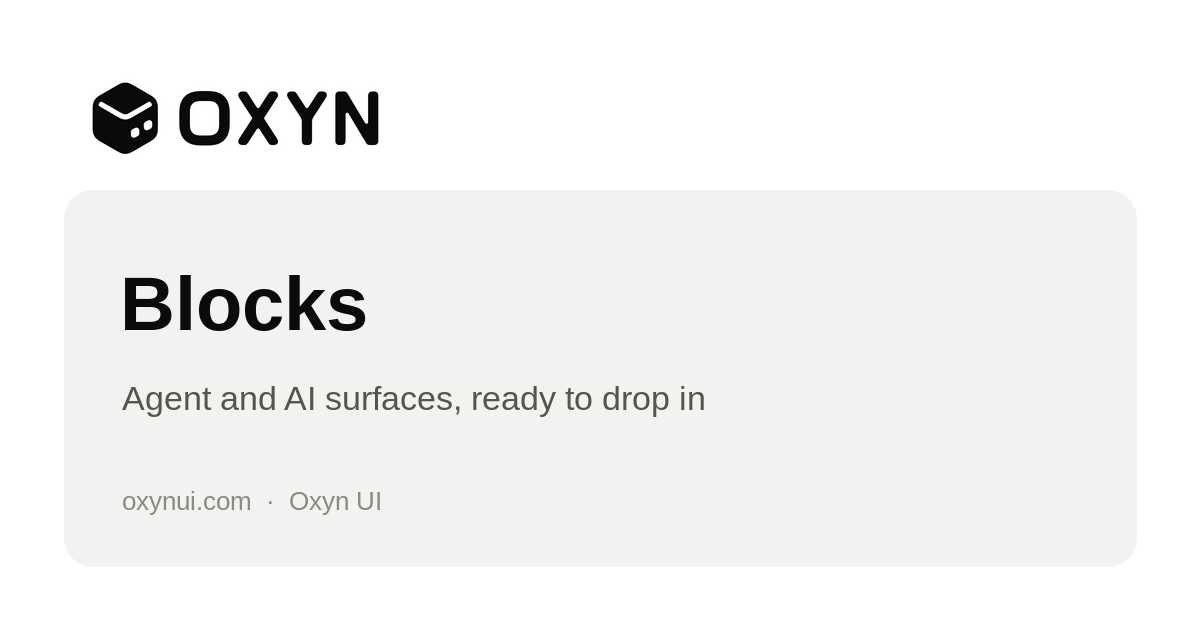
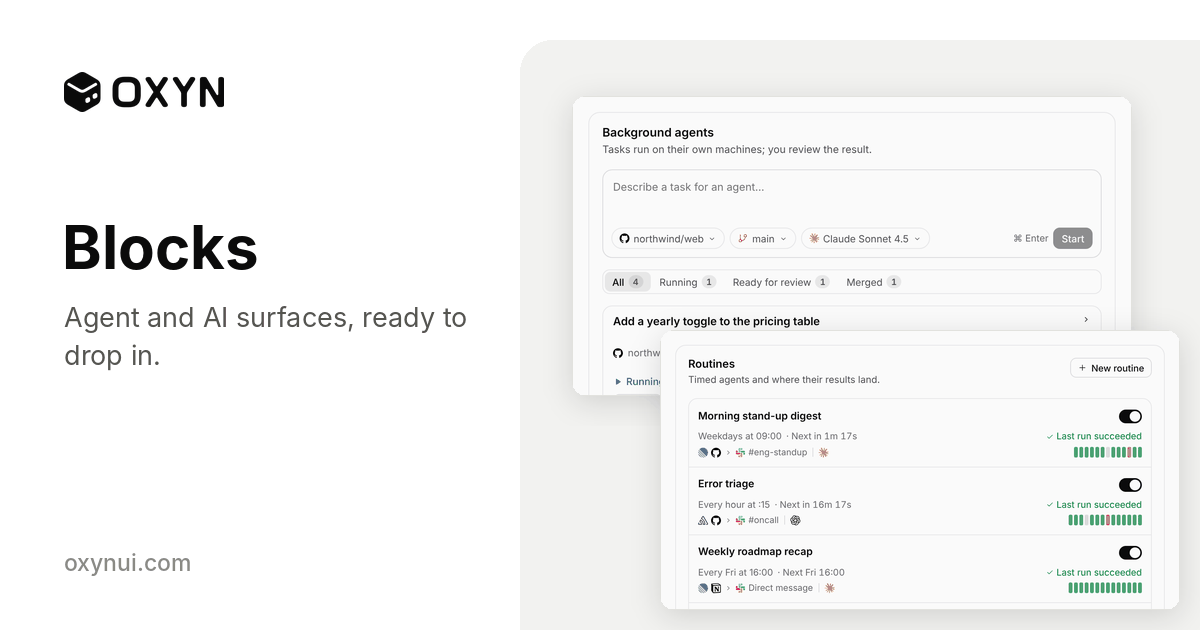
feat(site): link-preview cards from real screenshots, og:image ?v=3
scripts/og-shots.py screenshots the live components and screens and lays out 1200x630 cards for the landing (og.png), Components, Screens, Blocks, Pricing, Docs and a generic docs card (35-55 KB each, limit 300 KB checked). The remaining text cards keep og-cards.sh, now drawing the lockup from scripts/assets/og-lockup.png. Every og:image carries ?v=OG_V (src/lib/site.mjs, now 3). The landing's section previews load 640-wide WebP copies (public/og/t/, 5-13 KB) instead of the 60-70 KB PNGs.

diff --git a/site/scripts/og-shots.py b/site/scripts/og-shots.py
@@ -1,0 +1,133 @@
+#!/usr/bin/env python3
+# Link-preview cards from real screenshots (public/og.png and public/og/<card>.png, 1200 x 630, PNG,
+# each under 300 KB). Screenshots the live components and screens on a running site, then lays out
+# the Oxyn lockup, a title and a line on the left and the screenshot on a grey panel on the right.
+# Bump OG_V in src/lib/site.mjs after rerunning so apps that cached the old cards fetch the new ones.
+#
+#   OXYN_PREVIEW=https://oxynui.com python3 scripts/og-shots.py      (needs playwright + Pillow)
+#   CHROMIUM=/usr/bin/chromium picks a browser; --compose-only reuses the last screenshots;
+#   --thumbs-only only rewrites the 640-wide WebP previews (public/og/t/) after og-cards.sh.
+import asyncio, json, os, sys
+from PIL import Image, ImageDraw, ImageFilter, ImageFont
+
+HERE = os.path.dirname(os.path.abspath(__file__))
+PUB = os.path.join(HERE, '..', 'public')
+SHOTS = os.environ.get('OXYN_OG_SHOTS', '/tmp/oxyn-og-shots')
+BASE = os.environ.get('OXYN_PREVIEW', 'https://oxynui.com').rstrip('/')
+FREE = len(json.load(open(os.path.join(HERE, '..', 'src', 'lib', 'free-tier.json')))['free'])
+
+# What to screenshot: whole screens (the /full/ view at 1440 x 900) and single components (the
+# component itself on its item page, without the playground controls).
+SCREENS = ['chat-agents', 'kanban'] if os.environ.get('OXYN_OG_SCREENS', '1') == '1' else []
+COMPONENTS = ['components/agents/approval-card', 'components/agents/agent-plan', 'components/agents/tool-call',
+              'components/chat/reasoning-block', 'blocks/agents/agent-routines', 'blocks/agents/background-agents']
+
+def font(weight, size):
+    for f in [f'/usr/share/fonts/opentype/inter/Inter-{weight}.otf',
+              f'/usr/share/fonts/truetype/liberation/LiberationSans-{"Bold" if weight != "Regular" else "Regular"}.ttf']:
+        if os.path.exists(f): return ImageFont.truetype(f, size)
+    return ImageFont.load_default()
+
+async def shoot():
+    from playwright.async_api import async_playwright
+    os.makedirs(SHOTS, exist_ok=True)
+    async with async_playwright() as p:
+        exe = os.environ.get('CHROMIUM')
+        b = await p.chromium.launch(**({'executable_path': exe} if exe else {}), args=['--no-sandbox'] + (['--no-proxy-server'] if '127.0.0.1' in BASE or 'localhost' in BASE else []))
+        ctx = await b.new_context(viewport={'width': 1440, 'height': 900}, device_scale_factor=2, color_scheme='light')
+        # Only the site itself: a third-party beacon must not hold up the load event.
+        await ctx.route(lambda u: not u.startswith(BASE), lambda r: r.abort())
+        pg = await ctx.new_page()
+        async def open_(u):
+            await pg.goto(BASE + u, wait_until='domcontentloaded', timeout=60000)
+            await pg.evaluate("sessionStorage.setItem('oxyn-intro','1');localStorage.setItem('oxyn-announce','closed');localStorage.removeItem('starlight-theme')")
+            await pg.goto(BASE + u, wait_until='load', timeout=60000)
+            await pg.wait_for_timeout(2500)
+        for s in SCREENS:
+            await open_(f'/screens/{s}/full/')
+            # The screen's own frame, without the gallery's state bar under it.
+            bb = await pg.evaluate("(()=>{const e=document.querySelector('oxyn-demo .oxd-mount > *')||document.querySelector('oxyn-demo');const r=e.getBoundingClientRect();return {x:r.x,y:r.y,width:r.width,height:Math.min(r.height,innerHeight-r.y)}})()")
+            await pg.screenshot(path=f'{SHOTS}/screen-{s}.png', clip=bb)
+        for c in COMPONENTS:
+            await open_(f'/{c}/')
+            bb = await pg.evaluate("(()=>{const d=document.querySelector('oxyn-demo');const e=d.querySelector('.oxd-mount > *')||d;scrollTo(0,scrollY+e.getBoundingClientRect().top-140);const r=e.getBoundingClientRect();const P=20;return {x:r.x-P,y:r.y-P,width:r.width+2*P,height:Math.min(r.height+2*P,innerHeight-r.y+P)}})()")
+            await pg.wait_for_timeout(1200)
+            await pg.screenshot(path=f'{SHOTS}/comp-{c.split("/")[-1]}.png', clip=bb)
+        await b.close()
+
+W, H = 1200, 630
+INK, MUTED, FAINT, PANEL, LINE = (11, 11, 11), (85, 85, 79), (138, 138, 132), (242, 242, 240), (226, 226, 222)
+
+def rounded(im, r):
+    m = Image.new('L', im.size, 0)
+    ImageDraw.Draw(m).rounded_rectangle([0, 0, im.size[0] - 1, im.size[1] - 1], r, fill=255)
+    out = Image.new('RGBA', im.size); out.paste(im, (0, 0), m); return out
+
+def place(card, shot, x, y, w, crop_h=None, r=14):
+    """A screenshot scaled to width w at (x, y), cut at crop_h, with a hairline and a soft shadow."""
+    im = Image.open(shot).convert('RGB')
+    h = round(im.size[1] * w / im.size[0])
+    im = im.resize((w, h), Image.LANCZOS)
+    if crop_h and crop_h < h: im = im.crop((0, 0, w, crop_h)); h = crop_h
+    sh = Image.new('RGBA', (w + 60, h + 60), (0, 0, 0, 0))
+    ImageDraw.Draw(sh).rounded_rectangle([30, 36, 30 + w, 36 + h], r, fill=(0, 0, 0, 34))
+    card.alpha_composite(sh.filter(ImageFilter.GaussianBlur(14)), (x - 30, y - 30))
+    framed = Image.new('RGB', (w, h), LINE); framed.paste(im.crop((1, 1, w - 1, h - 1)), (1, 1))
+    card.alpha_composite(rounded(framed, r), (x, y))
+
+def wrap(d, text, f, width):
+    lines, cur = [], ''
+    for word in text.split():
+        t = (cur + ' ' + word).strip()
+        if d.textlength(t, font=f) <= width: cur = t
+        else: lines.append(cur); cur = word
+    return lines + [cur]
+
+def card(name, title, line, shots):
+    c = Image.new('RGBA', (W, H), (255, 255, 255, 255))
+    d = ImageDraw.Draw(c)
+    d.rounded_rectangle([520, 40, W + 40, H + 40], 32, fill=PANEL)
+    for args in shots: place(c, *args)
+    # The lockup, title and line sit on white, left of the panel.
+    lock = Image.open(os.path.join(HERE, 'assets', 'og-lockup.png')).convert('RGBA')
+    lock = lock.resize((round(lock.size[0] * 40 / lock.size[1]), 40), Image.LANCZOS)
+    c.alpha_composite(lock, (64, 72))
+    ft = font('Bold', 60 if len(title) < 12 else 50)
+    d.text((62, 210), title, font=ft, fill=INK)
+    fl = font('Regular', 27)
+    for i, ln in enumerate(wrap(d, line, fl, 410)): d.text((64, 300 + i * 38), ln, font=fl, fill=MUTED)
+    d.text((64, 548), 'oxynui.com', font=font('Medium', 23), fill=FAINT)
+    out = os.path.join(PUB, 'og.png' if name == 'home' else f'og/{name}.png')
+    c.convert('RGB').quantize(colors=256, method=Image.Quantize.MEDIANCUT, dither=Image.Dither.NONE).save(out, optimize=True)
+    kb = os.path.getsize(out) / 1024
+    print(f'{out}: {kb:.0f} KB')
+    assert kb < 300, f'{out} is {kb:.0f} KB (limit 300)'
+
+def compose():
+    S = lambda n: os.path.join(SHOTS, n + '.png')
+    card('home', 'Oxyn UI', 'Rust UI components for AI agents, for Dioxus and GPUI.', [(S('screen-chat-agents'), 572, 96, 860)])
+    card('components', 'Components', 'Chat, tool calls, approvals and plans for Dioxus and GPUI.',
+         [(S('comp-approval-card'), 572, 96, 520), (S('comp-tool-call'), 572, 418, 520), (S('comp-reasoning-block'), 572, 490, 520)])
+    card('screens', 'Screens', 'Whole agent app screens, built from the components.', [(S('screen-kanban'), 572, 96, 860)])
+    card('blocks', 'Blocks', 'Agent and AI surfaces, ready to drop in.',
+         [(S('comp-background-agents'), 572, 96, 560, 300), (S('comp-agent-routines'), 660, 330, 520, 280)])
+    card('pricing', 'Pricing', f'{FREE} components free under MIT. Pro opens every screen and block.',
+         [(S('comp-agent-plan'), 572, 96, 520), (S('comp-approval-card'), 700, 380, 440)])
+    card('docs', 'Docs', 'Install, theme and ship Oxyn UI in Rust.',
+         [(S('comp-reasoning-block'), 572, 96, 560), (S('comp-approval-card'), 640, 300, 480)])
+    card('docs-page', 'Oxyn UI docs', 'Guides and reference for agent interfaces in Rust.',
+         [(S('comp-agent-plan'), 572, 96, 600)])
+
+def thumbs():
+    """640-wide WebP copies of every card (public/og/t/), for the <img> previews on the landing."""
+    os.makedirs(os.path.join(PUB, 'og', 't'), exist_ok=True)
+    for f in sorted(os.listdir(os.path.join(PUB, 'og'))):
+        if not f.endswith('.png'): continue
+        out = os.path.join(PUB, 'og', 't', f[:-4] + '.webp')
+        Image.open(os.path.join(PUB, 'og', f)).convert('RGB').resize((640, 336), Image.LANCZOS).save(out, 'WEBP', quality=82, method=6)
+        print(f'{out}: {os.path.getsize(out) / 1024:.0f} KB')
+
+if __name__ == '__main__':
+    if '--compose-only' not in sys.argv and '--thumbs-only' not in sys.argv: asyncio.run(shoot())
+    if '--thumbs-only' not in sys.argv: compose()
+    thumbs()
